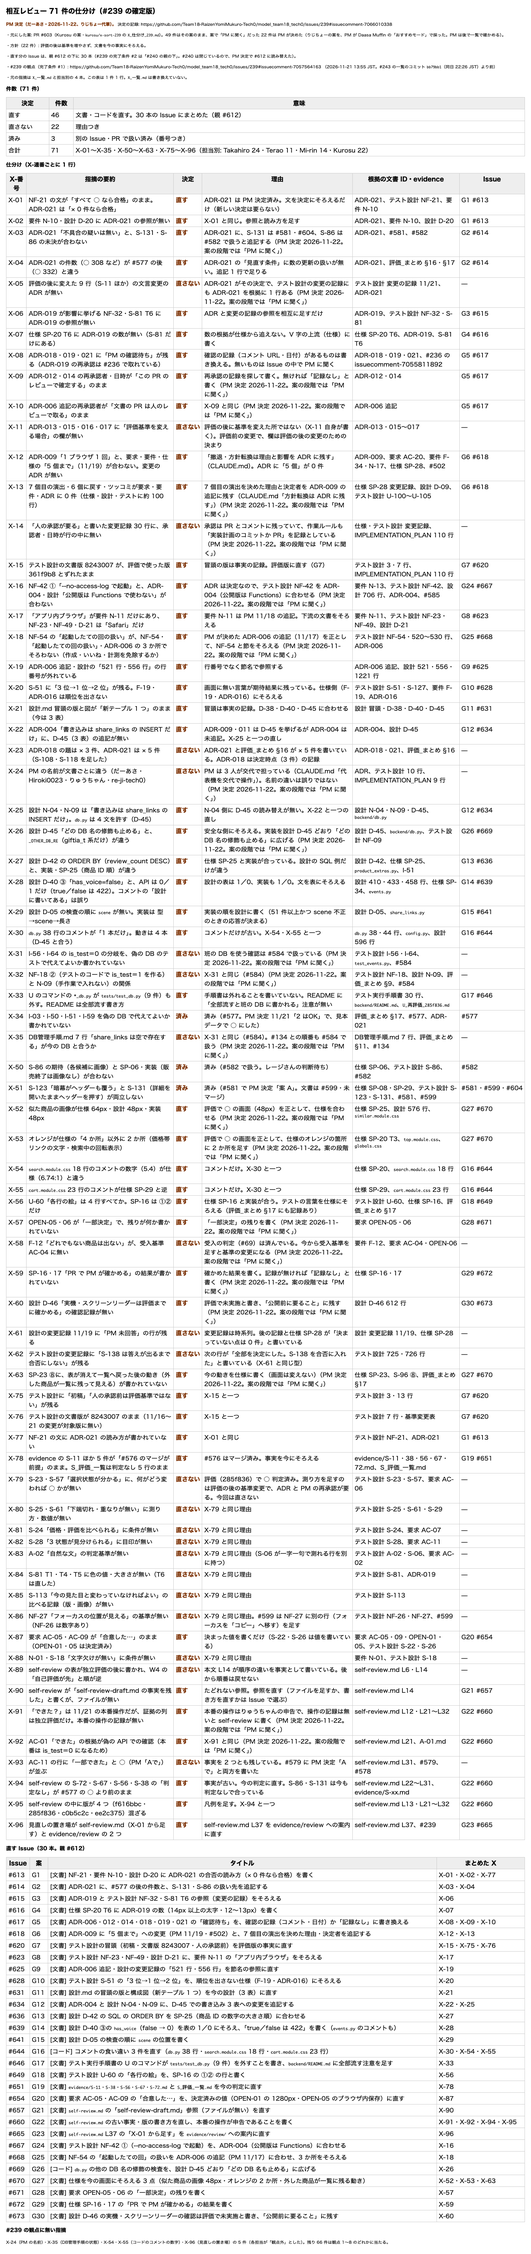
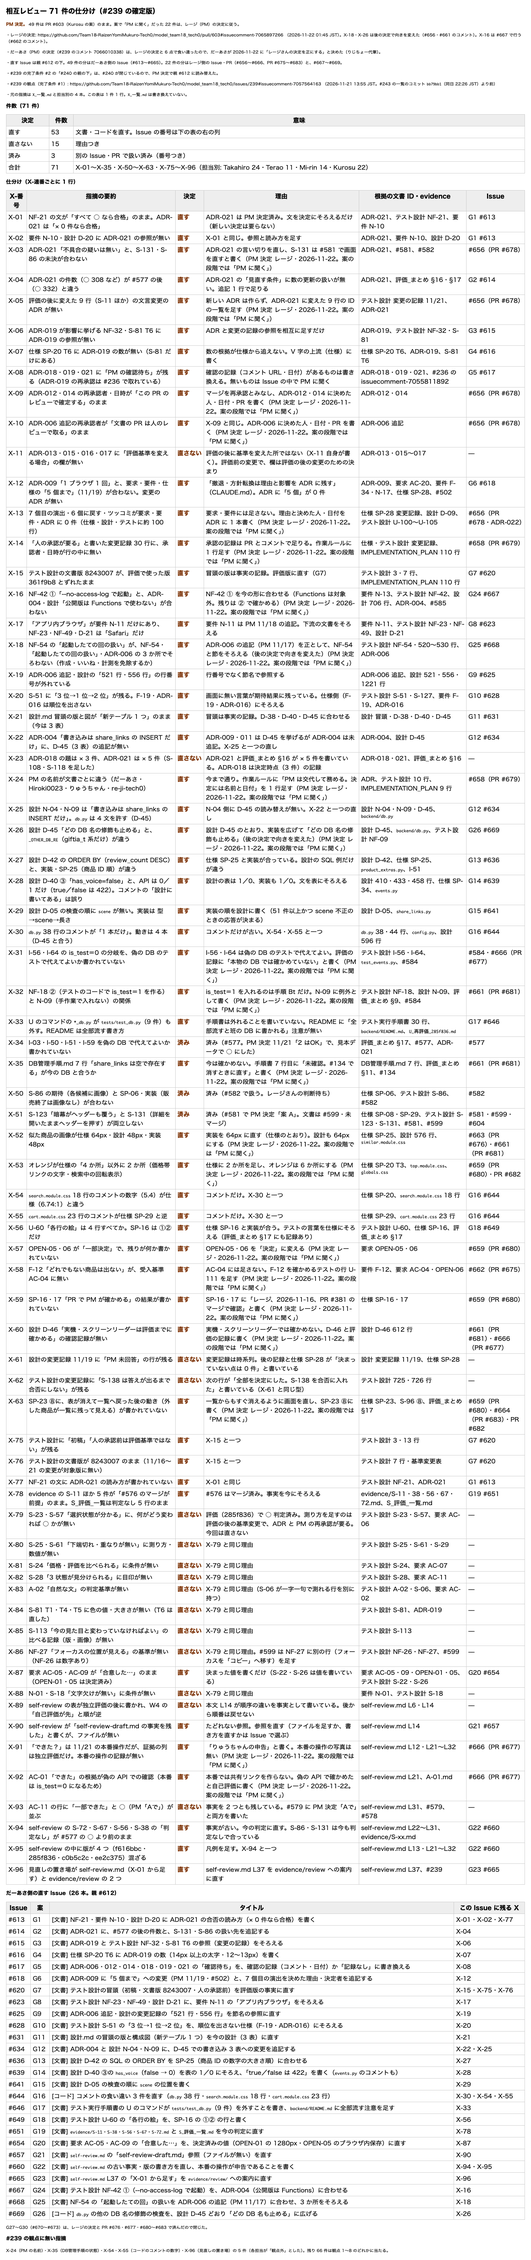
docs: [#239] 「PM に聞く」22 件をレージの決定に合わせる（直す 53・直さない 15・済み 3）
Claude-Session: https://claude.ai/code/session_015pBTLXXwSJ4BwUaqLYdwuB

Changed region(s): [[0.0, 0.0, 0.9829, 0.9966], [0.6757, 0.0, 0.7064, 0.0311]]

diff --git a/02_プロジェクト/giftia-ui-renewal/evidence/review/X_仕分け_239.md b/02_プロジェクト/giftia-ui-renewal/evidence/review/X_仕分け_239.md
@@ -1,10 +1,11 @@
 # 相互レビュー 71 件の仕分け（#239 の確定版）
 
-**PM 決定（だーあさ・2026-11-22、りじちょー代筆）。** 決定の記録: https://github.com/Team18-RaizenYomiMukuro-Tech0/model_team18_tech0/issues/239#issuecomment-7066010338
+**PM 決定。** 49 件は PR #603（Kurosu の案）のまま。案で「PM に聞く」だった 22 件は、レージ（PM）の決定に従う。
 
-- 元にした案: PR #603（Kurosu の案・`kurosu/x-sort-239` の `X_仕分け_239.md`）。49 件はその案のまま、案で「PM に聞く」だった 22 件は PM が決めた（りじちょーの案を、PM が Daasa Muffin の「おすすめモード」で採った。PM は後で一覧で確かめる）。
-- 方針（22 件）: 評価の後は基準を増やさず、文書を今の事実にそろえる。
-- 直す分の Issue は、親 #612 の下に 30 本（#239 の完了条件 #2 は「#240 の親の下」。#240 は閉じているので、PM 決定で #612 に読み替えた）。
+- レージの決定: https://github.com/Team18-RaizenYomiMukuro-Tech0/model_team18_tech0/pull/603#issuecomment-7065897266 （2026-11-22 01:45 JST）。X-18・X-26 は後の決定で向きを変えた（#656・#661 のコメント）。X-16 は #667 で行う（#662 のコメント）。
+- だーあさ（PM）の決定（#239 のコメント 7066010338）は、レージの決定と 6 点で食い違ったので、だーあさが 2026-11-22 に「レージさんの決定を正にする」と決めた（りじちょー代筆）。
+- 直す Issue は親 #612 の下。49 件の分はだーあさ側の Issue（#613〜#665）。22 件の分はレージ側の Issue・PR（#656〜#666、PR #675〜#683）と、#667〜#669。
+- #239 の完了条件 #2 の「#240 の親の下」は、#240 が閉じているので、PM 決定で親 #612 に読み替えた。
 - #239 の観点（完了条件 #1）: https://github.com/Team18-RaizenYomiMukuro-Tech0/model_team18_tech0/issues/239#issuecomment-7057564163 （2026-11-21 13:55 JST。#243 の一覧のコミット `bb79bb1`（同日 22:26 JST）より前）
 - 元の指摘は `X_一覧.md` と担当別の 4 本。この表は 1 件 1 行。`X_一覧.md` は書き換えていない。
 
@@ -12,8 +13,8 @@
 
 | 決定 | 件数 | 意味 |
 | --- | ---: | --- |
-| 直す | 46 | 文書・コードを直す。30 本の Issue にまとめた（親 #612） |
-| 直さない | 22 | 理由つき |
+| 直す | 53 | 文書・コードを直す。Issue の番号は下の表の右の列 |
+| 直さない | 15 | 理由つき |
 | 済み | 3 | 別の Issue・PR で扱い済み（番号つき） |
 | 合計 | 71 | X-01〜X-35・X-50〜X-63・X-75〜X-96（担当別: Takahiro 24・Terao 11・Mi-rin 14・Kurosu 22） |
 
@@ -23,53 +24,53 @@
 | --- | --- | --- | --- | --- | --- |
 | X-01 | NF-21 の文が「すべて ○ なら合格」のまま。ADR-021 は「× 0 件なら合格」 | **直す** | ADR-021 は PM 決定済み。文を決定にそろえるだけ（新しい決定は要らない） | ADR-021、テスト設計 NF-21、要件 N-10 | G1 #613 |
 | X-02 | 要件 N-10・設計 D-20 に ADR-021 の参照が無い | **直す** | X-01 と同じ。参照と読み方を足す | ADR-021、要件 N-10、設計 D-20 | G1 #613 |
-| X-03 | ADR-021「不具合の疑いは無い」と、S-131・S-86 の未決が合わない | **直す** | ADR-021 に、S-131 は #581・#604、S-86 は #582 で扱うと追記する（PM 決定 2026-11-22。案の段階では「PM に聞く」） | ADR-021、#581、#582 | G2 #614 |
+| X-03 | ADR-021「不具合の疑いは無い」と、S-131・S-86 の未決が合わない | **直す** | ADR-021 の言い切りを直し、S-131 は #581 で画面を直すと書く（PM 決定 レージ・2026-11-22。案の段階では「PM に聞く」） | ADR-021、#581、#582 | #656（PR #678） |
 | X-04 | ADR-021 の件数（○ 308 など）が #577 の後（○ 332）と違う | **直す** | ADR-021 の「見直す条件」に数の更新の扱いが無い。追記 1 行で足りる | ADR-021、評価_まとめ §16・§17 | G2 #614 |
-| X-05 | 評価の後に変えた 9 行（S-11 ほか）の文言変更の ADR が無い | **直さない** | ADR-021 がその決定で、テスト設計の変更の記録にも ADR-021 を根拠に 1 行ある（PM 決定 2026-11-22。案の段階では「PM に聞く」） | テスト設計 変更の記録 11/21、ADR-021 | — |
+| X-05 | 評価の後に変えた 9 行（S-11 ほか）の文言変更の ADR が無い | **直す** | 新しい ADR は作らず、ADR-021 に変えた 9 行の ID の一覧を足す（PM 決定 レージ・2026-11-22。案の段階では「PM に聞く」） | テスト設計 変更の記録 11/21、ADR-021 | #656（PR #678） |
 | X-06 | ADR-019 が影響に挙げる NF-32・S-81 T6 に ADR-019 の参照が無い | **直す** | ADR と変更の記録の参照を相互に足すだけ | ADR-019、テスト設計 NF-32・S-81 | G3 #615 |
 | X-07 | 仕様 SP-20 T6 に ADR-019 の数が無い（S-81 だけにある） | **直す** | 数の根拠が仕様から追えない。V 字の上流（仕様）に書く | 仕様 SP-20 T6、ADR-019、S-81 T6 | G4 #616 |
 | X-08 | ADR-018・019・021 に「PM の確認待ち」が残る（ADR-019 の再承認は #236 で取れている） | **直す** | 確認の記録（コメント URL・日付）があるものは書き換える。無いものは Issue の中で PM に聞く | ADR-018・019・021、#236 の issuecomment-7055811892 | G5 #617 |
-| X-09 | ADR-012・014 の再承認者・日時が「この PR のレビューで確定する」のまま | **直す** | 再承認の記録を探して書く。無ければ「記録なし」と書く（PM 決定 2026-11-22。案の段階では「PM に聞く」） | ADR-012・014 | G5 #617 |
-| X-10 | ADR-006 追記の再承認者が「文書の PR は人のレビューで取る」のまま | **直す** | X-09 と同じ（PM 決定 2026-11-22。案の段階では「PM に聞く」） | ADR-006 追記 | G5 #617 |
+| X-09 | ADR-012・014 の再承認者・日時が「この PR のレビューで確定する」のまま | **直す** | マージを再承認とみなし、ADR-012・014 に決めた人・日付・PR を書く（PM 決定 レージ・2026-11-22。案の段階では「PM に聞く」） | ADR-012・014 | #656（PR #678） |
+| X-10 | ADR-006 追記の再承認者が「文書の PR は人のレビューで取る」のまま | **直す** | X-09 と同じ。ADR-006 に決めた人・日付・PR を書く（PM 決定 レージ・2026-11-22。案の段階では「PM に聞く」） | ADR-006 追記 | #656（PR #678） |
 | X-11 | ADR-013・015・016・017 に「評価基準を変える場合」の欄が無い | **直さない** | 評価の後に基準を変えた所ではない（X-11 自身が書く）。評価前の変更で、欄は評価の後の変更のための決まり | ADR-013・015〜017 | — |
 | X-12 | ADR-009「1 ブラウザ 1 回」と、要求・要件・仕様の「5 個まで」（11/19）が合わない。変更の ADR が無い | **直す** | 「撤退・方針転換は理由と影響を ADR に残す」（CLAUDE.md）。ADR に「5 個」が 0 件 | ADR-009、要求 AC-20、要件 F-34・N-17、仕様 SP-28、#502 | G6 #618 |
-| X-13 | 7 個目の演出・6 個に戻す・ツッコミが要求・要件・ADR に 0 件（仕様・設計・テストに約 100 行） | **直す** | 7 個目の演出を決めた理由と決定者を ADR-009 の追記に残す（CLAUDE.md「方針転換は ADR に残す」）（PM 決定 2026-11-22。案の段階では「PM に聞く」） | 仕様 SP-28 変更記録、設計 D-09、テスト設計 U-100〜U-105 | G6 #618 |
-| X-14 | 「人の承認が要る」と書いた変更記録 30 行に、承認者・日時が行の中に無い | **直さない** | 承認は PR とコメントに残っていて、作業ルールも「実装計画のコミットか PR」を記録としている（PM 決定 2026-11-22。案の段階では「PM に聞く」） | 仕様・テスト設計 変更記録、IMPLEMENTATION_PLAN 110 行 | — |
+| X-13 | 7 個目の演出・6 個に戻す・ツッコミが要求・要件・ADR に 0 件（仕様・設計・テストに約 100 行） | **直す** | 要求・要件には足さない。理由と決めた人・日付を ADR に 1 本書く（PM 決定 レージ・2026-11-22。案の段階では「PM に聞く」） | 仕様 SP-28 変更記録、設計 D-09、テスト設計 U-100〜U-105 | #656（PR #678・ADR-022） |
+| X-14 | 「人の承認が要る」と書いた変更記録 30 行に、承認者・日時が行の中に無い | **直す** | 承認の記録は PR とコメントで足りる。作業ルールに 1 行足す（PM 決定 レージ・2026-11-22。案の段階では「PM に聞く」） | 仕様・テスト設計 変更記録、IMPLEMENTATION_PLAN 110 行 | #658（PR #679） |
 | X-15 | テスト設計の文書版 8243007 が、評価で使った版 361f9b8 とずれたまま | **直す** | 冒頭の版は事実の記録。評価版に直す（G7） | テスト設計 3・7 行、IMPLEMENTATION_PLAN 110 行 | G7 #620 |
-| X-16 | NF-42 ①「--no-access-log で起動」と、ADR-004・設計「公開版は Functions で使わない」が合わない | **直す** | ADR は決定なので、テスト設計 NF-42 を ADR-004（公開版は Functions）に合わせる（PM 決定 2026-11-22。案の段階では「PM に聞く」） | 要件 N-13、テスト設計 NF-42、設計 706 行、ADR-004、#585 | G24 #667 |
+| X-16 | NF-42 ①「--no-access-log で起動」と、ADR-004・設計「公開版は Functions で使わない」が合わない | **直す** | NF-42 ① を今の形に合わせる（Functions は対象外。残りは ② で確かめる）（PM 決定 レージ・2026-11-22。案の段階では「PM に聞く」） | 要件 N-13、テスト設計 NF-42、設計 706 行、ADR-004、#585 | G24 #667 |
 | X-17 | 「アプリ内ブラウザ」が要件 N-11 だけにあり、NF-23・NF-49・D-21 は「Safari」だけ | **直す** | 要件 N-11 は PM 11/18 の追記。下流の文書をそろえる | 要件 N-11、テスト設計 NF-23・NF-49、設計 D-21 | G8 #623 |
-| X-18 | NF-54 の「起動したての回の扱い」が、NF-54・「起動したての回の扱い」・ADR-006 の 3 か所でそろわない（作成・いいね・計測を免除するか） | **直す** | PM が決めた ADR-006 の追記（11/17）を正として、NF-54 と節をそろえる（PM 決定 2026-11-22。案の段階では「PM に聞く」） | テスト設計 NF-54・520〜530 行、ADR-006 | G25 #668 |
+| X-18 | NF-54 の「起動したての回の扱い」が、NF-54・「起動したての回の扱い」・ADR-006 の 3 か所でそろわない（作成・いいね・計測を免除するか） | **直す** | ADR-006 の追記（PM 11/17）を正として、NF-54 と節をそろえる（後の決定で向きを変えた）（PM 決定 レージ・2026-11-22。案の段階では「PM に聞く」） | テスト設計 NF-54・520〜530 行、ADR-006 | G25 #668 |
 | X-19 | ADR-006 追記・設計の「521 行・556 行」の行番号が外れている | **直す** | 行番号でなく節名で参照する | ADR-006 追記、設計 521・556・1221 行 | G9 #625 |
 | X-20 | S-51 に「3 位→1 位→2 位」が残る。F-19・ADR-016 は順位を出さない | **直す** | 画面に無い言葉が期待結果に残っている。仕様側（F-19・ADR-016）にそろえる | テスト設計 S-51・S-127、要件 F-19、ADR-016 | G10 #628 |
 | X-21 | 設計.md 冒頭の版と図が「新テーブル 1 つ」のまま（今は 3 表） | **直す** | 冒頭は事実の記録。D-38・D-40・D-45 に合わせる | 設計 冒頭・D-38・D-40・D-45 | G11 #631 |
 | X-22 | ADR-004「書き込みは share_links の INSERT だけ」に、D-45（3 表）の追記が無い | **直す** | ADR-009・011 は D-45 を挙げるが ADR-004 は未追記。X-25 と一つの直し | ADR-004、設計 D-45 | G12 #634 |
 | X-23 | ADR-018 の題は × 3 件、ADR-021 は × 5 件（S-108・S-118 を足した） | **直さない** | ADR-021 と評価_まとめ §16 が × 5 件を書いている。ADR-018 は決定時点（3 件）の記録 | ADR-018・021、評価_まとめ §16 | — |
-| X-24 | PM の名前が文書ごとに違う（だーあさ・Hiroki0023・りゅうちゃん・re-ji-tech0） | **直さない** | PM は 3 人が交代で担っている（CLAUDE.md「代表機を交代で操作」）。名前の違いは誤りではない（PM 決定 2026-11-22。案の段階では「PM に聞く」） | ADR、テスト設計 10 行、IMPLEMENTATION_PLAN 9 行 | — |
+| X-24 | PM の名前が文書ごとに違う（だーあさ・Hiroki0023・りゅうちゃん・re-ji-tech0） | **直す** | 今まで通り。作業ルールに「PM は交代して務める。決定には名前と日付」を 1 行足す（PM 決定 レージ・2026-11-22。案の段階では「PM に聞く」） | ADR、テスト設計 10 行、IMPLEMENTATION_PLAN 9 行 | #658（PR #679） |
 | X-25 | 設計 N-04・N-09 は「書き込みは share_links の INSERT だけ」。`db.py` は 4 文を許す（D-45） | **直す** | N-04 側に D-45 の読み替えが無い。X-22 と一つの直し | 設計 N-04・N-09・D-45、`backend/db.py` | G12 #634 |
-| X-26 | 設計 D-45「どの DB 名の修飾も止める」と、`_OTHER_DB_RE`（giftia_t 系だけ）が違う | **直す** | 安全な側にそろえる。実装を設計 D-45 どおり「どの DB 名の修飾も止める」に広げる（PM 決定 2026-11-22。案の段階では「PM に聞く」） | 設計 D-45、`backend/db.py`、テスト設計 NF-09 | G26 #669 |
+| X-26 | 設計 D-45「どの DB 名の修飾も止める」と、`_OTHER_DB_RE`（giftia_t 系だけ）が違う | **直す** | 設計 D-45 のとおり、実装を広げて「どの DB 名の修飾も止める」（後の決定で向きを変えた）（PM 決定 レージ・2026-11-22。案の段階では「PM に聞く」） | 設計 D-45、`backend/db.py`、テスト設計 NF-09 | G26 #669 |
 | X-27 | 設計 D-42 の ORDER BY（review_count DESC）と、実装・SP-25（商品 ID 順）が違う | **直す** | 仕様 SP-25 と実装が合っている。設計の SQL 例だけが違う | 設計 D-42、仕様 SP-25、`product_extras.py`、I-51 | G13 #636 |
 | X-28 | 設計 D-40 ③「has_voice=false」と、API は 0／1 だけ（true／false は 422）。コメントの「設計に書いてある」は誤り | **直す** | 設計の表は 1／0、実装も 1／0。文を表にそろえる | 設計 410・433・458 行、仕様 SP-34、`events.py` | G14 #639 |
 | X-29 | 設計 D-05 の検査の順に `scene` が無い。実装は 型→scene→長さ | **直す** | 実装の順を設計に書く（51 件以上かつ scene 不正のときの応答が決まる） | 設計 D-05、`share_links.py` | G15 #641 |
 | X-30 | `db.py` 38 行のコメントが「1 本だけ」。動きは 4 本（D-45 と合う） | **直す** | コメントだけが古い。X-54・X-55 と一つ | `db.py` 38・44 行、`config.py`、設計 596 行 | G16 #644 |
-| X-31 | I-56・I-64 の is_test＝0 の分岐を、偽の DB のテストで代えてよいか書かれていない | **直さない** | 班の DB を使う確認は #584 で扱っている（PM 決定 2026-11-22。案の段階では「PM に聞く」） | テスト設計 I-56・I-64、`test_events.py`、#584 | — |
-| X-32 | NF-18 ②（テストのコードで is_test＝1 を作る）と N-09（手作業で入れない）の関係 | **直さない** | X-31 と同じ（#584）（PM 決定 2026-11-22。案の段階では「PM に聞く」） | テスト設計 NF-18、設計 N-09、評価_まとめ §9、#584 | — |
+| X-31 | I-56・I-64 の is_test＝0 の分岐を、偽の DB のテストで代えてよいか書かれていない | **直す** | I-56・I-64 は偽の DB のテストで代えてよい。評価の記録に「本物の DB では確かめていない」と書く（PM 決定 レージ・2026-11-22。案の段階では「PM に聞く」） | テスト設計 I-56・I-64、`test_events.py`、#584 | #584・#666（PR #677） |
+| X-32 | NF-18 ②（テストのコードで is_test＝1 を作る）と N-09（手作業で入れない）の関係 | **直す** | is_test＝1 を入れるのは手順 Bt だけ。N-09 に例外として書く（PM 決定 レージ・2026-11-22。案の段階では「PM に聞く」） | テスト設計 NF-18、設計 N-09、評価_まとめ §9、#584 | #661（PR #681） |
 | X-33 | U のコマンドの `*_db.py` が `tests/test_db.py`（9 件）も外す。README は全部流す書き方 | **直す** | 手順書は外れることを書いていない。README に「全部流すと班の DB に書かれる」注意が無い | テスト実行手順書 30 行、`backend/README.md`、`U_再評価_285f836.md` | G17 #646 |
 | X-34 | I-03・I-50・I-51・I-59 を偽の DB で代えてよいか書かれていない | **済み** | 済み（#577。PM 決定 11/21「2 はOK」で、見本データで ○ にした） | 評価_まとめ §17、#577、ADR-021 | #577 |
-| X-35 | DB管理手順.md 7 行「share_links は空で存在する」が今の DB と合うか | **直さない** | X-31 と同じ（#584）。#134 との順番も #584 で扱う（PM 決定 2026-11-22。案の段階では「PM に聞く」） | DB管理手順.md 7 行、評価_まとめ §11、#134 | — |
+| X-35 | DB管理手順.md 7 行「share_links は空で存在する」が今の DB と合うか | **直す** | 今は確かめない。手順書 7 行目に「未確認。#134 で消すときに直す」と書く（PM 決定 レージ・2026-11-22。案の段階では「PM に聞く」） | DB管理手順.md 7 行、評価_まとめ §11、#134 | #661（PR #681） |
 | X-50 | S-86 の期待（各候補に画像）と SP-06・実装（販売終了は画像なし）が合わない | **済み** | 済み（#582 で扱う。レージさんの判断待ち） | 仕様 SP-06、テスト設計 S-86、#582 | #582 |
 | X-51 | S-123「暗幕がヘッダーも覆う」と S-131（詳細を開いたままヘッダーを押す）が両立しない | **済み** | 済み（#581 で PM 決定「案 A」。文書は #599・未マージ） | 仕様 SP-08・SP-29、テスト設計 S-123・S-131、#581、#599 | #581・#599・#604 |
-| X-52 | 似た商品の画像が仕様 64px・設計 48px・実装 48px | **直す** | 評価で ○ の画面（48px）を正として、仕様を合わせる（PM 決定 2026-11-22。案の段階では「PM に聞く」） | 仕様 SP-25、設計 576 行、`similar.module.css` | G27 #670 |
-| X-53 | オレンジが仕様の「4 か所」以外に 2 か所（価格帯リンクの文字・検索中の回転表示） | **直す** | 評価で ○ の画面を正として、仕様のオレンジの箇所に 2 か所を足す（PM 決定 2026-11-22。案の段階では「PM に聞く」） | 仕様 SP-20 T3、`top.module.css`、`globals.css` | G27 #670 |
+| X-52 | 似た商品の画像が仕様 64px・設計 48px・実装 48px | **直す** | 実装を 64px に直す（仕様のとおり）。設計も 64px にする（PM 決定 レージ・2026-11-22。案の段階では「PM に聞く」） | 仕様 SP-25、設計 576 行、`similar.module.css` | #663（PR #676）・#661（PR #681） |
+| X-53 | オレンジが仕様の「4 か所」以外に 2 か所（価格帯リンクの文字・検索中の回転表示） | **直す** | 仕様に 2 か所を足し、オレンジは 6 か所にする（PM 決定 レージ・2026-11-22。案の段階では「PM に聞く」） | 仕様 SP-20 T3、`top.module.css`、`globals.css` | #659（PR #680）・PR #682 |
 | X-54 | `search.module.css` 18 行のコメントの数字（5.4）が仕様（6.74:1）と違う | **直す** | コメントだけ。X-30 と一つ | 仕様 SP-20、`search.module.css` 18 行 | G16 #644 |
 | X-55 | `cart.module.css` 23 行のコメントが仕様 SP-29 と逆 | **直す** | コメントだけ。X-30 と一つ | 仕様 SP-29、`cart.module.css` 23 行 | G16 #644 |
 | X-56 | U-60「各行の絵」は 4 行すべてか。SP-16 は ①② だけ | **直す** | 仕様 SP-16 と実装が合う。テストの言葉を仕様にそろえる（評価_まとめ §17 にも記録あり） | テスト設計 U-60、仕様 SP-16、評価_まとめ §17 | G18 #649 |
-| X-57 | OPEN-05・06 が「一部決定」で、残りが何か書かれていない | **直す** | 「一部決定」の残りを書く（PM 決定 2026-11-22。案の段階では「PM に聞く」） | 要求 OPEN-05・06 | G28 #671 |
-| X-58 | F-12「どれでもない商品は出ない」が、受入基準 AC-04 に無い | **直さない** | 受入の判定（#69）は済んでいる。今から受入基準を足すと基準の変更になる（PM 決定 2026-11-22。案の段階では「PM に聞く」） | 要件 F-12、要求 AC-04・OPEN-06 | — |
-| X-59 | SP-16・17「PR で PM が確かめる」の結果が書かれていない | **直す** | 確かめた結果を書く。記録が無ければ「記録なし」と書く（PM 決定 2026-11-22。案の段階では「PM に聞く」） | 仕様 SP-16・17 | G29 #672 |
-| X-60 | 設計 D-46「実機・スクリーンリーダーは評価までに確かめる」の確認記録が無い | **直す** | 評価で未実施と書き、「公開前に要ること」に残す（PM 決定 2026-11-22。案の段階では「PM に聞く」） | 設計 D-46 612 行 | G30 #673 |
+| X-57 | OPEN-05・06 が「一部決定」で、残りが何か書かれていない | **直す** | OPEN-05・06 を「決定」に変える（PM 決定 レージ・2026-11-22。案の段階では「PM に聞く」） | 要求 OPEN-05・06 | #659（PR #680） |
+| X-58 | F-12「どれでもない商品は出ない」が、受入基準 AC-04 に無い | **直す** | AC-04 には足さない。F-12 を確かめるテストの行 U-111 を足す（PM 決定 レージ・2026-11-22。案の段階では「PM に聞く」） | 要件 F-12、要求 AC-04・OPEN-06 | #662（PR #675） |
+| X-59 | SP-16・17「PR で PM が確かめる」の結果が書かれていない | **直す** | SP-16・17 に「レージ、2026-11-16、PR #381 のマージで確認」と書く（PM 決定 レージ・2026-11-22。案の段階では「PM に聞く」） | 仕様 SP-16・17 | #659（PR #680） |
+| X-60 | 設計 D-46「実機・スクリーンリーダーは評価までに確かめる」の確認記録が無い | **直す** | 実機・スクリーンリーダーでは確かめない。D-46 と評価の記録に書く（PM 決定 レージ・2026-11-22。案の段階では「PM に聞く」） | 設計 D-46 612 行 | #661（PR #681）・#666（PR #677） |
 | X-61 | 設計の変更記録 11/19 に「PM 未回答」の行が残る | **直さない** | 変更記録は時系列。後の記録と仕様 SP-28 が「決まっていない点は 0 件」と書いている | 設計 変更記録 11/19、仕様 SP-28 | — |
 | X-62 | テスト設計の変更記録に「S-138 は答えが出るまで合否にしない」が残る | **直さない** | 次の行が「全部を決定にした。S-138 を合否に入れた」と書いている（X-61 と同じ型） | テスト設計 725・726 行 | — |
-| X-63 | SP-23 ⑧に、表が消えて一覧へ戻った後の動き（外した商品が一覧に残って見える）が書かれていない | **直す** | 今の動きを仕様に書く（画面は変えない）（PM 決定 2026-11-22。案の段階では「PM に聞く」） | 仕様 SP-23、S-96 ⑧、評価_まとめ §17 | G27 #670 |
+| X-63 | SP-23 ⑧に、表が消えて一覧へ戻った後の動き（外した商品が一覧に残って見える）が書かれていない | **直す** | 一覧からもすぐ消えるように画面を直し、SP-23 ⑧に書く（PM 決定 レージ・2026-11-22。案の段階では「PM に聞く」） | 仕様 SP-23、S-96 ⑧、評価_まとめ §17 | #659（PR #680）・#664（PR #683）・PR #682 |
 | X-75 | テスト設計に「初稿」「人の承認前は評価基準ではない」が残る | **直す** | X-15 と一つ | テスト設計 3・13 行 | G7 #620 |
 | X-76 | テスト設計の文書版が 8243007 のまま（11/16〜21 の変更が対象版に無い） | **直す** | X-15 と一つ | テスト設計 7 行・基準変更表 | G7 #620 |
 | X-77 | NF-21 の文に ADR-021 の読み方が書かれていない | **直す** | X-01 と同じ | テスト設計 NF-21、ADR-021 | G1 #613 |
@@ -86,23 +87,23 @@
 | X-88 | N-01・S-18「文字欠けが無い」に条件が無い | **直さない** | X-79 と同じ理由 | 要件 N-01、テスト設計 S-18 | — |
 | X-89 | self-review の表が独立評価の後に書かれ、W4 の「自己評価が先」と順が逆 | **直さない** | 本文 L14 が順序の違いを事実として書いている。後から順番は戻せない | self-review.md L6・L14 | — |
 | X-90 | self-review が「self-review-draft.md の事実を残した」と書くが、ファイルが無い | **直す** | たどれない参照。参照を直す（ファイルを足すか、書き方を直すかは Issue で選ぶ） | self-review.md L14 | G21 #657 |
-| X-91 | 「できた？」は 11/21 の本番操作だが、証拠の列は独立評価だけ。本番の操作の記録が無い | **直す** | 本番の操作はりゅうちゃんの申告で、操作の記録は無いと self-review に書く（PM 決定 2026-11-22。案の段階では「PM に聞く」） | self-review.md L12・L21〜L32 | G22 #660 |
-| X-92 | AC-01「できた」の根拠が偽の API での確認（本番は is_test＝0 になるため） | **直す** | X-91 と同じ（PM 決定 2026-11-22。案の段階では「PM に聞く」） | self-review.md L21、A-01.md | G22 #660 |
+| X-91 | 「できた？」は 11/21 の本番操作だが、証拠の列は独立評価だけ。本番の操作の記録が無い | **直す** | 「りゅうちゃんの申告」と書く。本番の操作の写真は無い（PM 決定 レージ・2026-11-22。案の段階では「PM に聞く」） | self-review.md L12・L21〜L32 | #666（PR #677） |
+| X-92 | AC-01「できた」の根拠が偽の API での確認（本番は is_test＝0 になるため） | **直す** | 本番では共有リンクを作らない。偽の API で確かめたと自己評価に書く（PM 決定 レージ・2026-11-22。案の段階では「PM に聞く」） | self-review.md L21、A-01.md | #666（PR #677） |
 | X-93 | AC-11 の行に「一部できた」と ○（PM「Aで」）が並ぶ | **直さない** | 事実を 2 つとも残している。#579 に PM 決定「Aで」と両方を書いた | self-review.md L31、#579、#578 | — |
 | X-94 | self-review の S-72・S-67・S-56・S-38 の「判定なし」が #577 の ○ より前のまま | **直す** | 事実が古い。今の判定に直す。S-86・S-131 は今も判定なしで合っている | self-review.md L22〜L31、evidence/S-xx.md | G22 #660 |
 | X-95 | self-review の中に版が 4 つ（f616bbc・285f836・c0b5c2c・ee2c375）混ざる | **直す** | 凡例を足す。X-94 と一つ | self-review.md L13・L21〜L32 | G22 #660 |
 | X-96 | 見直しの置き場が self-review.md（X-01 から足す）と evidence/review の 2 つ | **直す** | self-review.md L37 を evidence/review への案内に直す | self-review.md L37、#239 | G23 #665 |
 
-## 直す Issue（30 本。親 #612）
+## だーあさ側の直す Issue（26 本。親 #612）
 
-| Issue | 案 | タイトル | まとめた X |
+| Issue | 案 | タイトル | この Issue に残る X |
 | --- | --- | --- | --- |
 | #613 | G1 | [文書] NF-21・要件 N-10・設計 D-20 に ADR-021 の合否の読み方（× 0 件なら合格）を書く | X-01・X-02・X-77 |
-| #614 | G2 | [文書] ADR-021 に、#577 の後の件数と、S-131・S-86 の扱い先を追記する | X-03・X-04 |
+| #614 | G2 | [文書] ADR-021 に、#577 の後の件数と、S-131・S-86 の扱い先を追記する | X-04 |
 | #615 | G3 | [文書] ADR-019 と テスト設計 NF-32・S-81 T6 の参照（変更の記録）をそろえる | X-06 |
 | #616 | G4 | [文書] 仕様 SP-20 T6 に ADR-019 の数（14px 以上の太字・12〜13px）を書く | X-07 |
-| #617 | G5 | [文書] ADR-006・012・014・018・019・021 の「確認待ち」を、確認の記録（コメント・日付）か「記録なし」に書き換える | X-08・X-09・X-10 |
-| #618 | G6 | [文書] ADR-009 に「5 個まで」への変更（PM 11/19・#502）と、7 個目の演出を決めた理由・決定者を追記する | X-12・X-13 |
+| #617 | G5 | [文書] ADR-006・012・014・018・019・021 の「確認待ち」を、確認の記録（コメント・日付）か「記録なし」に書き換える | X-08 |
+| #618 | G6 | [文書] ADR-009 に「5 個まで」への変更（PM 11/19・#502）と、7 個目の演出を決めた理由・決定者を追記する | X-12 |
 | #620 | G7 | [文書] テスト設計の冒頭（初稿・文書版 8243007・人の承認前）を評価版の事実に直す | X-15・X-75・X-76 |
 | #623 | G8 | [文書] テスト設計 NF-23・NF-49・設計 D-21 に、要件 N-11 の「アプリ内ブラウザ」をそろえる | X-17 |
 | #625 | G9 | [文書] ADR-006 追記・設計の変更記録の「521 行・556 行」を節名の参照に直す | X-19 |
@@ -118,15 +119,13 @@
 | #651 | G19 | [文書] `evidence/S-11・S-38・S-56・S-67・S-72.md` と `S_評価_一覧.md` を今の判定に直す | X-78 |
 | #654 | G20 | [文書] 要求 AC-05・AC-09 の「合意した…」を、決定済みの値（OPEN-01 の 1280px・OPEN-05 のブラウザ内保存）に直す | X-87 |
 | #657 | G21 | [文書] `self-review.md` の「self-review-draft.md」参照（ファイルが無い）を直す | X-90 |
-| #660 | G22 | [文書] `self-review.md` の古い事実・版の書き方を直し、本番の操作が申告であることを書く | X-91・X-92・X-94・X-95 |
+| #660 | G22 | [文書] `self-review.md` の古い事実・版の書き方を直し、本番の操作が申告であることを書く | X-94・X-95 |
 | #665 | G23 | [文書] `self-review.md` L37 の「X-01 から足す」を `evidence/review/` への案内に直す | X-96 |
 | #667 | G24 | [文書] テスト設計 NF-42 ①（--no-access-log で起動）を、ADR-004（公開版は Functions）に合わせる | X-16 |
 | #668 | G25 | [文書] NF-54 の「起動したての回」の扱いを ADR-006 の追記（PM 11/17）に合わせ、3 か所をそろえる | X-18 |
 | #669 | G26 | [コード] `db.py` の他の DB 名の修飾の検査を、設計 D-45 どおり「どの DB 名も止める」に広げる | X-26 |
-| #670 | G27 | [文書] 仕様を今の画面にそろえる 3 点（似た商品の画像 48px・オレンジの 2 か所・外した商品が一覧に残る動き） | X-52・X-53・X-63 |
-| #671 | G28 | [文書] 要求 OPEN-05・06 の「一部決定」の残りを書く | X-57 |
-| #672 | G29 | [文書] 仕様 SP-16・17 の「PR で PM が確かめる」の結果を書く | X-59 |
-| #673 | G30 | [文書] 設計 D-46 の実機・スクリーンリーダーの確認は評価で未実施と書き、「公開前に要ること」に残す | X-60 |
+
+G27〜G30（#670〜#673）は、レージの決定と PR #676・#677・#680〜#683 で済んだので閉じた。
 
 ## #239 の観点に無い指摘
 X-24（PM の名前）・X-35（DB管理手順の状態）・X-54・X-55（コードのコメントの数字）・X-96（見直しの置き場）の 5 件（各担当が「観点外」とした）。残り 66 件は観点 1〜8 のどれかに当たる。
